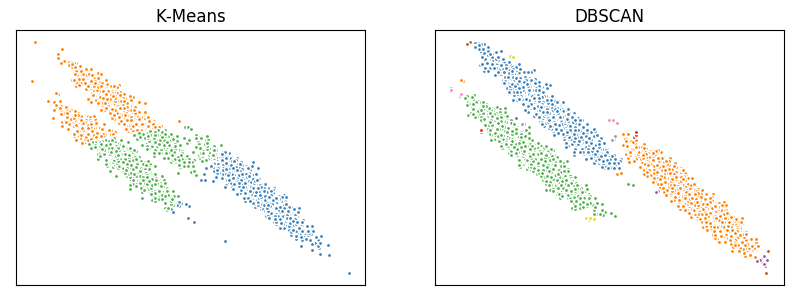
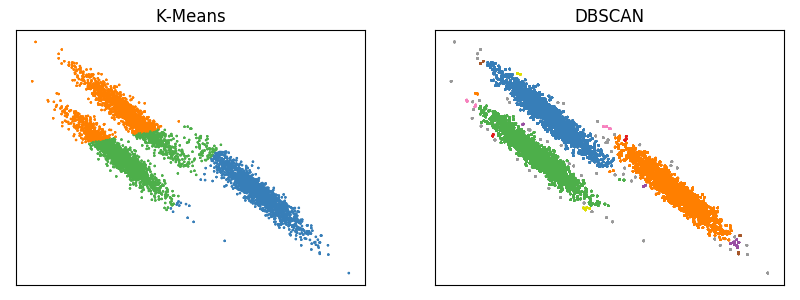
dbscan

diff --git a/thesis/chapters/chapter1/density-clustering.tex b/thesis/chapters/chapter1/density-clustering.tex
@@ -24,23 +24,81 @@ En este caso número de puntos alrededor de $A$ es 7.
 El valor del radio es determinante en la densidad de un punto.
 Si este valor es suficientemente grande, entonces todos los puntos tendrán una densidad de $n$, el número de puntos en el conjunto de datos.
 En cambio, si el radio es demasiado pequeño, la densidad de todos los puntos será igual a 1.
-Más adelante discutiremos algunas estrategias para la selección de valores apropiados para el radio. % TODO Check if accomplished
+Más adelante discutiremos algunas estrategias para la selección de valores apropiados para el radio.
 
 \begin{figure}[!h]
     \centering
     \includegraphics[width=\textwidth]{dbscan.png}
-    \caption{Densidad en el entorno de un punto y clasificaciones de los puntos según su densidad.}
+    \caption{Densidad en el entorno de un punto y clasificaciones de los puntos según su densidad. (Tomado de~\cite{Tan05}.)}
     \label{img:dbscan}
 \end{figure}
 
 De acuerdo con la densidad de un punto, estos pueden ser clasificados de la siguiente forma:
 
 \begin{itemize}
-    \item \textbf{Puntos núcleo}: Constituyen puntos de la región interna de un cluster basado en densidad. Un punto es núcleo si el número de puntos alrededor de este (incluyéndolo) supera o iguala un valor $MinPts$, especificado por el usuario. En la figura~\ref{img:dbscan} los puntos identificados con la letra $A$ son núcleos para el radio $Eps$ indicado si $MinPts\leq 7$.
-    \item \textbf{Puntos frontera}: Un punto frontera es aquel que no cumple el criterio de núcleo, pero que forma parte de la vecindad de al menos uno de estos. En la figura~\ref{img:dbscan} $B$ es un punto frontera.
-    \item \textbf{Puntos de ruido}: Un punto es de ruido si no es núcleo o frontera. En la figura~\ref{img:dbscan} $C$ es un punto de ruido.
+    \item \textbf{Puntos núcleo}: Constituyen puntos de la región interna de un cluster basado en densidad.
+    Un punto es núcleo si el número de puntos alrededor de este (incluyéndolo) supera o iguala un valor $MinPts$, especificado por el usuario.
+    En la figura~\ref{img:dbscan} los puntos identificados con la letra $A$ son núcleos para el radio $Eps$ indicado si $MinPts\leq 7$.
+    \item \textbf{Puntos frontera}: Un punto frontera es aquel que no cumple el criterio de núcleo, pero que forma parte de la vecindad de al menos uno de estos.
+    En la figura~\ref{img:dbscan} $B$ es un punto frontera.
+    \item \textbf{Puntos de ruido}: Un punto es de ruido si no es núcleo o frontera.
+    En la figura~\ref{img:dbscan} $C$ es un punto de ruido.
 \end{itemize}
 
-\subsection{Algoritmo DBSCAN}
+\subsection{Algoritmo DBSCAN}\label{subsec:algoritmoDbscan}
 
-A partir de las definiciones dadas de puntos núcleos, fronteras y de ruido, podemos describir el algoritmo DBSCAN del siguiente modo: Todo par de puntos núcleos cuya distancia sea no mayor que $Eps$ son asignados al mismo cluster. De igual forma, los puntos fronteras son asignados al cluster de los puntos núcleos cuya distancia a estos sea menor o igual que $Eps$. (En caso de estar en la vecindad de núcleos pertenecientes a clusters diferentes, un criterio específico debe ser determinado al programar el algoritmo). Los puntos de ruido son descartados y no asignados a ningún cluster.
+A partir de las definiciones dadas de puntos núcleos, fronteras y de ruido, podemos describir el algoritmo DBSCAN del siguiente modo: Todo par de puntos núcleos cuya distancia sea no mayor que $Eps$ son asignados al mismo cluster.
+De igual forma, los puntos fronteras son asignados al cluster de los puntos núcleos cuya distancia a estos sea menor o igual que $Eps$.
+(En caso de estar en la vecindad de núcleos pertenecientes a clusters diferentes, un criterio específico debe ser determinado al programar el algoritmo).
+Los puntos de ruido son descartados y no asignados a ningún cluster.
+
+\begin{algorithm}
+    \caption{DBSCAN}
+    \label{algorithm:DBSCAN}
+    Etiquetar todos los puntos como núcleo, frontera o ruido\;
+    Eliminar los puntos de ruido\;
+    Añadir una arista entre todo par de puntos núcleos que se encuentren a una distancia menor o igual que $Eps$\;
+    Convertir cada componente conexa del grafo resultante en un cluster\;
+    Asignar cada punto frontera a uno de los clusters de los puntos núcleos asociados a este\;
+\end{algorithm}
+
+\subsubsection{Complejidad espacial y temporal}
+
+El algoritmo DBSCAN demora en ejecución un tiempo $O(n \cdot$ tiempo para encontrar puntos en una $Eps$-vecindad), donde $n$ es el número de puntos en el conjunto de datos.
+En el peor caso, esta complejidad sería $O(n^2)$.
+Sin embargo, el uso de determinadas estructuras de datos en espacios de pocas dimensiones, permite la recuperación eficiente de todos los puntos en un intervalo dado alrededor de un punto específico~\cite{Tan05};
+en estos escenarios la complejidad puede llegar a ser $O(n\log n)$.
+Los requerimientos de memoria de DBSCAN, aun en espacios de grandes dimensiones, son $O(n)$, puesto que solo es necesario mantener poca información relativa a cada punto, como puede ser el cluster al que pertenece, la clasificación, etc.
+No obstante, este uso de memoria depende igualmente del comportamiento de la estructura de datos empleada para computar las vecindades.
+
+\subsubsection{Selección de parámetros para DBSCAN}
+
+Un criterio para determinar los parámetros es mediante la observación del comportamiento de la distancia de los puntos a su $k$-ésimo vecino más cercano, conocida como $k$-distancia.
+Si un punto pertenece a un cluster, entonces su $k$-distancia debe ser un valor relativamente pequeño, siempre que $k$ no sea mayor que el tamaño del cluster.
+Siempre que las densidades de los clusters no difieran radicalmente, en promedio, los valores de la $k$-distancias para puntos que pertenezcan a algún cluster no mostrarán un rango de valores muy amplio.
+En cambio, para puntos que no pertenezcan a ningún cluster, es decir, de ruido, este valor sí estará situado muy por encima del rango antes mencionado.
+De esta forma, si tomamos todos los puntos de un conjunto de datos, los ordenamos por su $k$-distancia y estas las representamos en una gráfica, deberíamos obtener una imagen donde existirá un punto de inflexión que se corresponda con el valor de la $k$-distancia a partir del cual los puntos se encuentran fuera de algún cluster.
+Podemos entonces tomar dicho valor como el $Eps$ adecuado para el problema en cuestión.
+En cuanto al valor de $MinPts$, este sería precisamente el $k$ seleccionado para calcular las distancias, pues los puntos cuya $k$-distancia sea menor que $Eps$ serán etiquetados como núcleos, mientras los demás serán fronteras o ruido.
+
+% TODO Consider putting an example of graphic here
+
+Es importante notar que el valor de $Eps$ resultante de este proceso dependerá del $k$ seleccionado al inicio.
+Si $k$ es demasiado pequeño, algunos puntos de ruido situados muy próximos entre sí pudieran ser etiquetados incorrectamente como clusters.
+Por otra parte, si $k$ es demasiado grandes, aquellos clusters cuya cantidad de elementos sea menor que $k$ no serán identificados correctamente.
+
+Un defecto del algoritmo DBSCAN es que requiere que las densidades de los clusters (y del espacio de datos en general) muestren comportamientos semejantes.
+Un ejemplo de esta afirmación podemos observarlo en la figura~\ref{img:density-issues}.
+El ruido alrededor de los clusters $A$ y $B$ presenta la misma densidad que los clusters $C$ y $D$.
+Si seleccionamos un $Eps$ suficientemente bajo para detectar a $C$ y $D$, sucederá entonces que $A$, $B$ y el ruido a su alrededor constituirán un mismo cluster.
+En cambio si el $Eps$ es tan alto como para distinguir a $A$ y $B$ como clusters independientes, entonces los puntos que forman parte de $C$ y $D$ serán considerados ruido.
+
+\begin{figure}[!h]
+    \centering
+    \includegraphics[width=\textwidth]{density-issues.png}
+    \caption{Cuatro clusters en un entorno de ruido.
+    Los tonos de gris más oscuros indican mayores densidades. (Tomado de~\cite{Tan05}.)}
+    \label{img:density-issues}
+\end{figure}
+
+% TODO Consider adding HDBSCAN

diff --git a/thesis/chapters/chapter1/hierarchical-clustering.tex b/thesis/chapters/chapter1/hierarchical-clustering.tex
@@ -41,7 +41,7 @@ Este concepto constituye la diferencia entre los distintos algoritmos de cluster
     \centering
     \includegraphics[width=\textwidth]{agglomerative-clustering.png}
     \caption{Ejemplo de aplicación de algoritmos de clustering aglomerativo. (a) Matriz de similaridad para un conjunto de datos de 4 puntos.
-    Dendrogramas obtenidos a partir de este conjunto usando los métodos de clustering aglomerativo (b) single link y (c) complete link.}
+    Dendrogramas obtenidos a partir de este conjunto usando los métodos de clustering aglomerativo (b) single link y (c) complete link. (Tomado de~\cite{Aggarawal13}.)}
 \end{figure}
 
 \textbf{Group averaged}~\footnote{También conocido como \textit{Average linkage}} es una tercera variante de clustering aglomerativo.
@@ -68,4 +68,4 @@ El paso 4 solo requiere un tiempo $O(n-i+1)$ para actualizar la matriz luego de 
 Sin efectuar ninguna modificación, esto nos lleva a una complejidad temporal total $O(n^3)$.
 Aunque aplicando mejoras como el empleo de estructuras de datos alternativas para almacenar la matriz y optimizar la búsqueda del paso 3, esta complejidad puede disminuirse hasta $O(n^2\log{n})$~\cite{Tan05}.
 
-La complejidad espacial y temporal de los algoritmos de clustering jerárquico constituyen una de las principales limitantes para su empleo sobre conjuntos de datos de tamaño significativo.
+La complejidad espacial y temporal de los algoritmos de clustering jerárquico constituye una de las principales limitantes para su empleo sobre conjuntos de datos de tamaño significativo.

diff --git a/code/kmeans_vs_dbscan.py b/code/kmeans_vs_dbscan.py
@@ -44,12 +44,12 @@ for i, (name, algorithm) in enumerate(algorithms):
     colors = np.array(list(islice(cycle(['#377eb8', '#ff7f00', '#4daf4a',
                                          '#f781bf', '#a65628', '#984ea3',
                                          '#999999', '#e41a1c', '#dede00']),
-                                  int(max(y_pred) + 1))))
+                                  int(len(set(y_pred))))))
 
     ax = fig.add_subplot(1, 2, i + 1)
-    for k, col in zip(range(len(set(y_pred))), colors):
+    for k, col in zip(set(y_pred), colors):
         my_members = y_pred == k
-        ax.plot(X[my_members, 0], X[my_members, 1], 'w', markerfacecolor=col, marker='.')
+        ax.scatter(X[:, 0], X[:, 1], s=0.5, color=colors[y_pred])
 
     ax.set_title(name)
     ax.set_xticks(())
